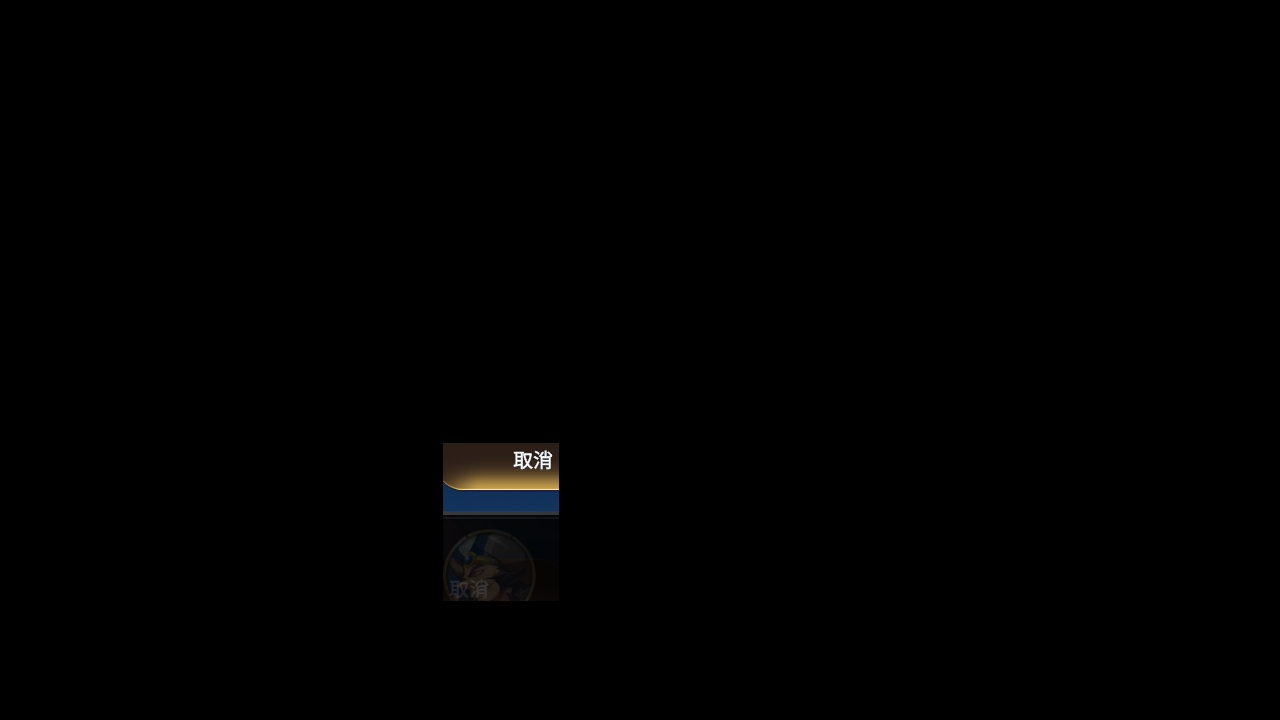
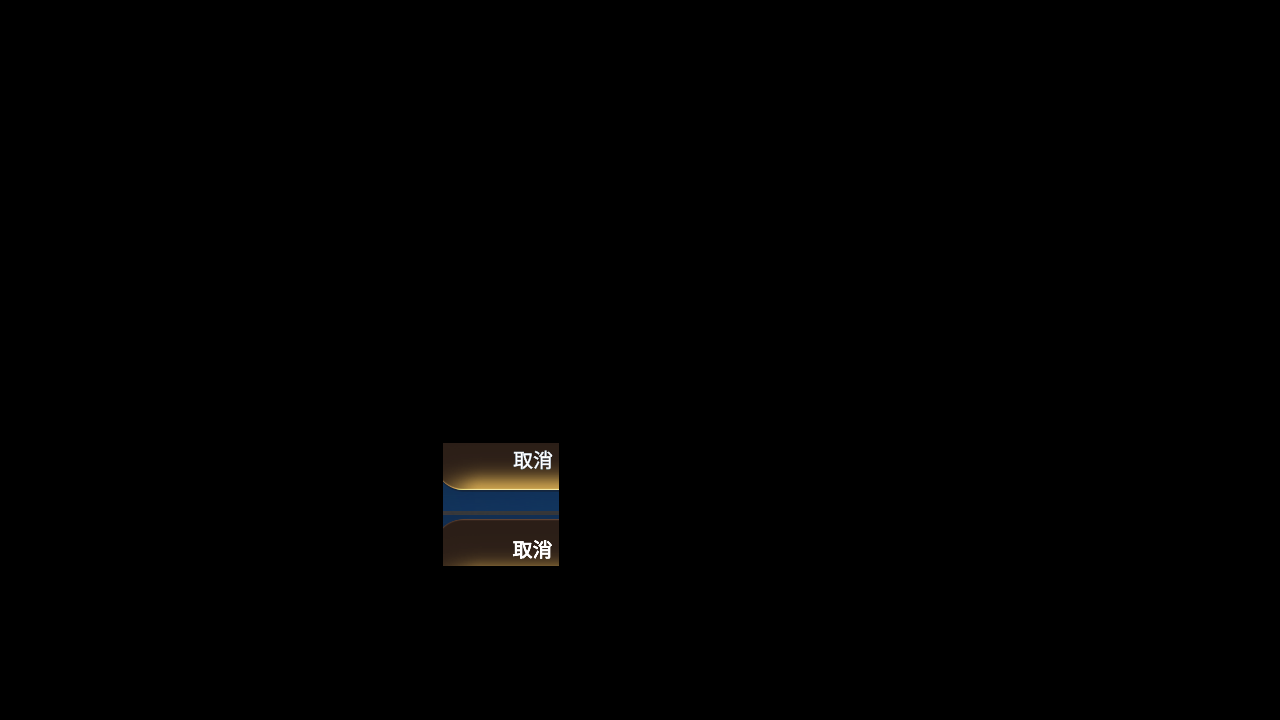
Fix: extend cancel search range to handle no stamina popups

Changed region(s): [[0.3438, 0.7028, 0.4375, 0.8556]]

diff --git a/tasks/base/assets/assets_base_popup.py b/tasks/base/assets/assets_base_popup.py
@@ -152,7 +152,7 @@ POPUP_CANCEL = ButtonWrapper(
     global_cn=Button(
         file='./assets/global_cn/base/popup/POPUP_CANCEL.png',
         area=(513, 450, 553, 470),
-        search=(443, 443, 559, 601),
+        search=(443, 443, 559, 566),
         color=(149, 141, 135),
         button=(513, 450, 553, 470),
     ),
